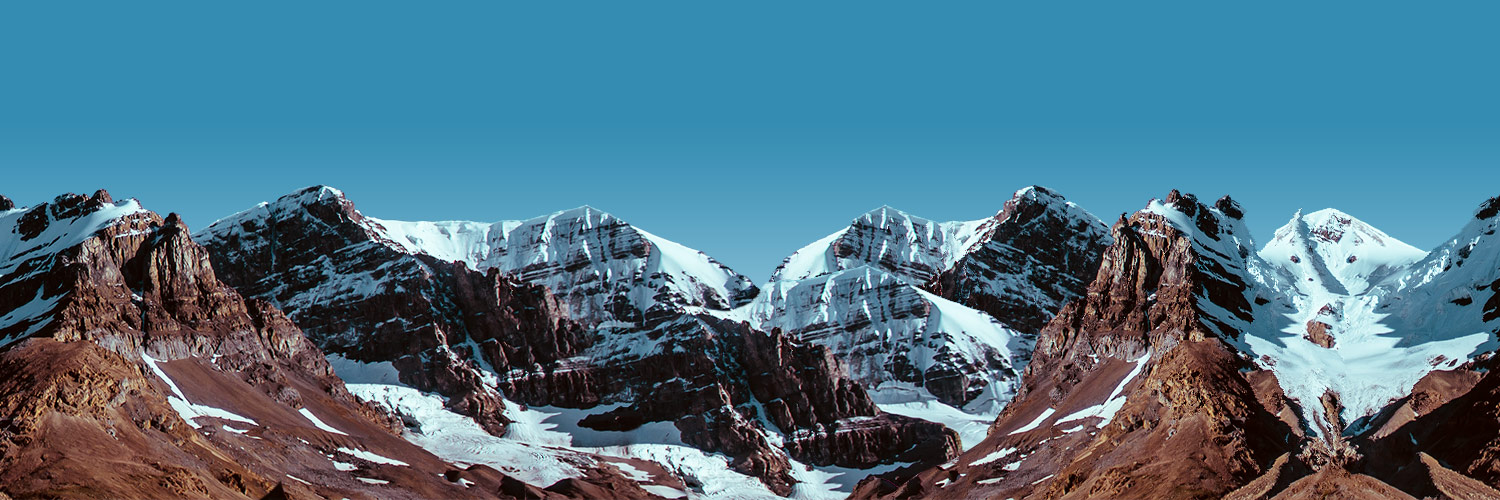
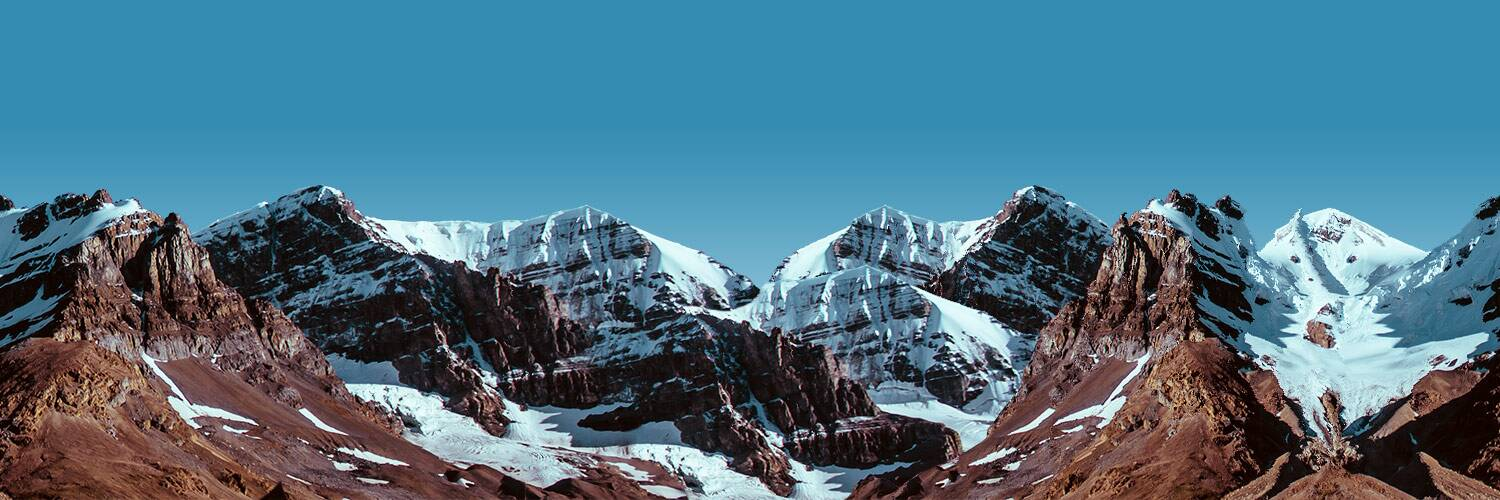
Performance pass: self-host fonts, compress hero background
- Replace the Google Fonts @import with self-hosted Source Sans Pro 300/900
  latin woff2 (font-display: swap, preloaded); include the OFL licence.
- Load Font Awesome via <link> rather than a chained @import.
- Re-encode bg.jpg as progressive q70 (238 KB -> 123 KB, same dimensions).
- Tick roadmap item and add LOG entry.

Claude-Session: https://claude.ai/code/session_013whQ3ozXTyoQ1ctdp57koi

diff --git a/assets/css/main.css b/assets/css/main.css
@@ -1,5 +1,20 @@
-@import url("https://fonts.googleapis.com/css?family=Source+Sans+Pro:300,900");
-@import url("fontawesome-all.min.css");
+/* Source Sans Pro, self-hosted (SIL OFL 1.1, see assets/fonts/OFL.txt) */
+@font-face {
+	font-family: 'Source Sans Pro';
+	font-style: normal;
+	font-weight: 300;
+	font-display: swap;
+	src: url("../fonts/source-sans-pro-latin-300-normal.woff2") format("woff2");
+	unicode-range: U+0000-00FF,U+0131,U+0152-0153,U+02BB-02BC,U+02C6,U+02DA,U+02DC,U+0304,U+0308,U+0329,U+2000-206F,U+2074,U+20AC,U+2122,U+2191,U+2193,U+2212,U+2215,U+FEFF,U+FFFD;
+}
+@font-face {
+	font-family: 'Source Sans Pro';
+	font-style: normal;
+	font-weight: 900;
+	font-display: swap;
+	src: url("../fonts/source-sans-pro-latin-900-normal.woff2") format("woff2");
+	unicode-range: U+0000-00FF,U+0131,U+0152-0153,U+02BB-02BC,U+02C6,U+02DA,U+02DC,U+0304,U+0308,U+0329,U+2000-206F,U+2074,U+20AC,U+2122,U+2191,U+2193,U+2212,U+2215,U+FEFF,U+FFFD;
+}
 
 /*
 	Aerial by HTML5 UP

diff --git a/index.html b/index.html
@@ -21,6 +21,9 @@
 		<meta name="twitter:title" content="Brandon Nunez">
 		<meta name="twitter:description" content="Brandon Nunez: Computer Science MEng student at the University of Warwick and aspiring software engineer.">
 		<meta name="twitter:image" content="https://theloafdog.github.io/assets/css/images/bg.jpg">
+		<link rel="preload" href="assets/fonts/source-sans-pro-latin-300-normal.woff2" as="font" type="font/woff2" crossorigin>
+		<link rel="preload" href="assets/fonts/source-sans-pro-latin-900-normal.woff2" as="font" type="font/woff2" crossorigin>
+		<link rel="stylesheet" href="assets/css/fontawesome-all.min.css">
 		<link rel="stylesheet" href="assets/css/main.css">
 		<script src="assets/js/theme.js"></script>
 		<noscript><link rel="stylesheet" href="assets/css/noscript.css"></noscript>

diff --git a/LOG.md b/LOG.md
@@ -79,3 +79,8 @@ Newest at the bottom. 3–5 lines per session.
 - Added a "Skip to content" link and a `<main id="content">` landmark around the sections; visible `:focus-visible` outlines (template had `outline: 0`); allowed pinch-zoom (dropped `user-scalable=no`).
 - Hero GitHub/LinkedIn icon links now have accessible names (labels were `display: none`); decorative bg/overlay and the duplicate "Scroll down" cue hidden from assistive tech.
 - Checked: html-validate, local link check, axe-core (WCAG A/AA + best practice) clean in dark/light and at 375px, no new console errors. Merged by Claude (small, no personal content). Next: Phase 3 performance pass.
+
+## 2026-11-11 — Performance pass
+- Dropped the Google Fonts `@import`; Source Sans Pro 300/900 (latin woff2, ~29 KB total, OFL in `assets/fonts/OFL.txt`) is self-hosted with `font-display: swap` and preloaded. Font Awesome is now a `<link>` instead of a chained `@import`. The page makes no third-party requests.
+- Re-encoded `bg.jpg` (same 1500×500, progressive, q70): 238 KB → 123 KB.
+- Checked: html-validate, link check, desktop + 375px screenshots, no console errors or failed requests. Lighthouse would not run in the sandbox (NO_FCP in headless), so the score is unmeasured. Merged by Claude (small, no personal content). Next: lean custom stylesheet. The template's multi-second hero fade-in will hold back LCP until it is replaced.

diff --git a/ROADMAP.md b/ROADMAP.md
@@ -19,7 +19,7 @@ Work top to bottom. One item per session. `[needs Brandon]` = skip in autonomous
 ## Phase 3 — Polish
 - [x] Dark/light mode toggle respecting `prefers-color-scheme`
 - [x] Accessibility pass: contrast, alt text, focus styles, skip link, semantic landmarks
-- [ ] Performance pass: self-host or drop the Google Fonts import, compress bg.jpg, aim for Lighthouse 95+
+- [x] Performance pass: self-host or drop the Google Fonts import, compress bg.jpg, aim for Lighthouse 95+
 - [ ] Replace the remaining template CSS with a lean custom stylesheet (then the HTML5 UP credit can go)
 
 ## Content — [needs Brandon]
